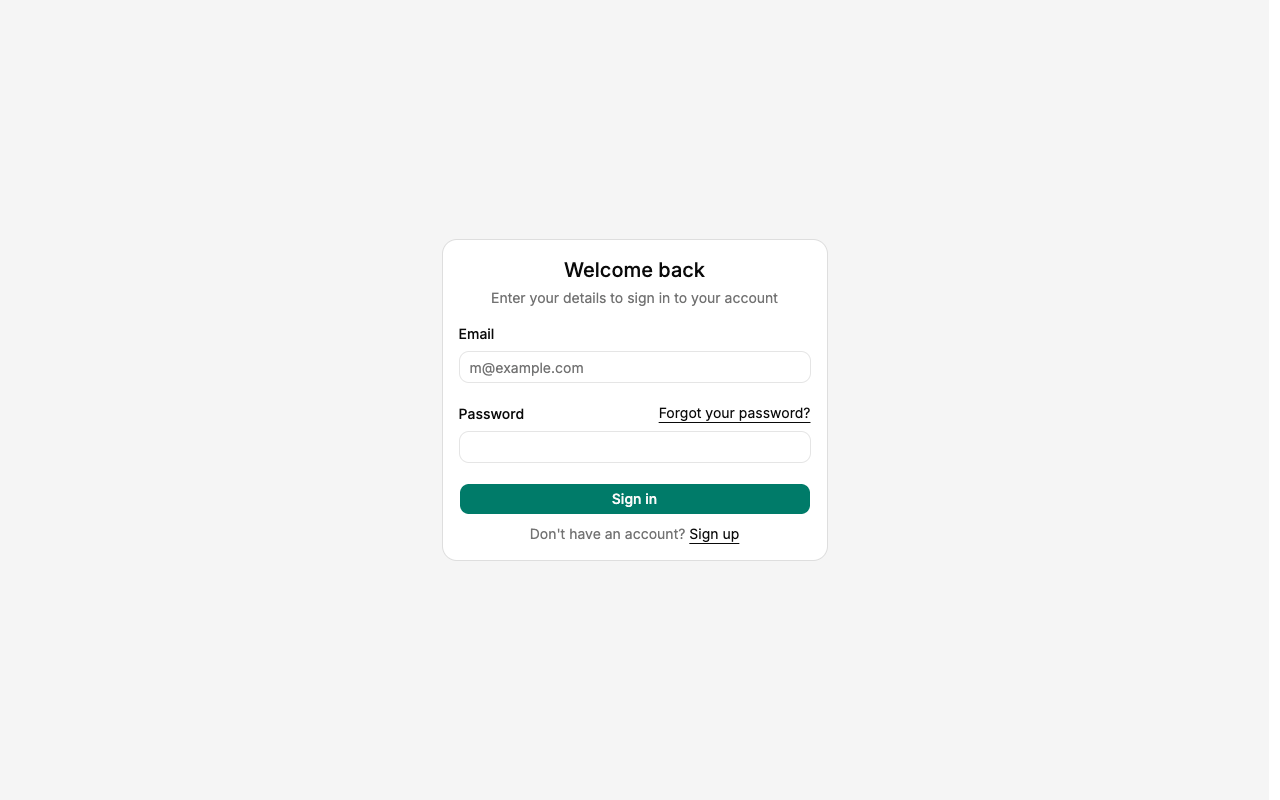
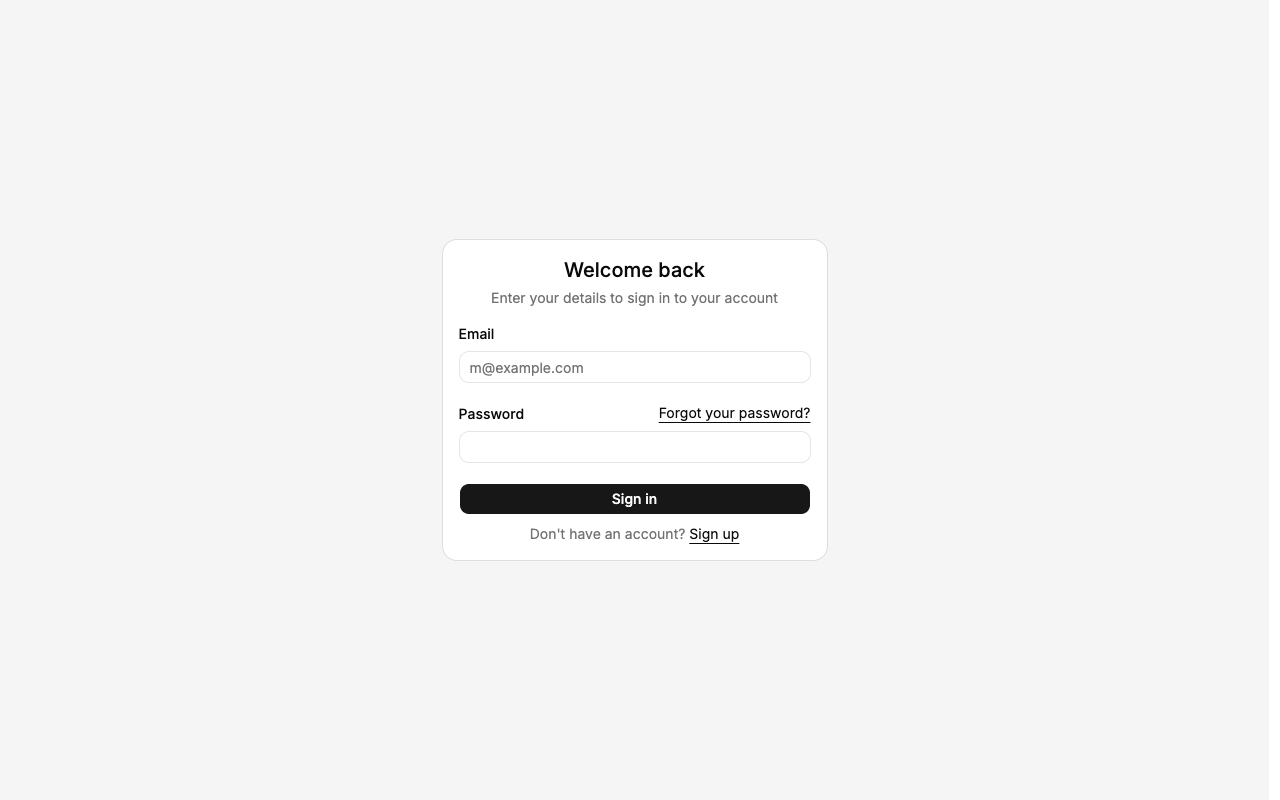
docs: add before and after shadcn visual review

Changed region(s): [[0.3438, 0.5938, 0.6562, 0.6562]]

diff --git a/docs/visual-review/shadcn/README.md b/docs/visual-review/shadcn/README.md
@@ -2,13 +2,13 @@
 
 Before: `5a4f71ddf15a5434044e90c4e0e2eddfc6c759ce` (PR merge base).
 
-After UI source: `ad0813b4e80a36a3959157bf4b5394fdd58a8796`. Later commits in this PR only add review evidence.
+After UI source: `0139185e9c290393c1ce3d497b82909345fa64bd`. Later commits in this PR only add review evidence.
 
-Inputs use the stock 32px height instead of 36px and lose the custom shadow; form spacing shifts slightly. The jade theme and page layout are preserved.
+The jade accent is replaced with black/white/gray in light and dark modes, including primary controls, focus rings, sidebar tokens, and chart colors. Dark surfaces and borders use the neutral palette. Standard semantic red error states remain. Inputs use the stock 32px height instead of 36px and lose custom shadows; form spacing shifts slightly.
 
-Manually compared matching desktop (1280×800) and mobile (390×844) viewports in Chromium, light theme, reduced motion. No horizontal overflow or unexpected clipping was observed in the sampled after states. This covers the pages/states below, not every screen, authenticated flow, or dark-mode state.
+Manually compared matching desktop (1280×800) and mobile (390×844) viewports in Chromium, light mode plus dark-mode login, reduced motion. No horizontal overflow or unexpected clipping was observed in the sampled after states. This covers the pages/states below, not every screen, authenticated flow, or interaction state.
 
-## Empty login form
+## Empty login form — light
 
 App: `web`. Route: `/login`. Same route and state on both commits.
 
@@ -23,3 +23,35 @@ Mobile
 | Before                             | After                            |
 | ---------------------------------- | -------------------------------- |
 | ![Before](login-mobile-before.png) | ![After](login-mobile-after.png) |
+
+## Empty login form — dark
+
+App: `web`. Route: `/login`. Same route and state on both commits.
+
+Desktop
+
+| Before                                   | After                                  |
+| ---------------------------------------- | -------------------------------------- |
+| ![Before](login-dark-desktop-before.png) | ![After](login-dark-desktop-after.png) |
+
+Mobile
+
+| Before                                  | After                                 |
+| --------------------------------------- | ------------------------------------- |
+| ![Before](login-dark-mobile-before.png) | ![After](login-dark-mobile-after.png) |
+
+## Landing hero — light
+
+App: `landing`. Route: `/`. Same route and state on both commits.
+
+Desktop
+
+| Before                                | After                               |
+| ------------------------------------- | ----------------------------------- |
+| ![Before](landing-desktop-before.png) | ![After](landing-desktop-after.png) |
+
+Mobile
+
+| Before                               | After                              |
+| ------------------------------------ | ---------------------------------- |
+| ![Before](landing-mobile-before.png) | ![After](landing-mobile-after.png) |
